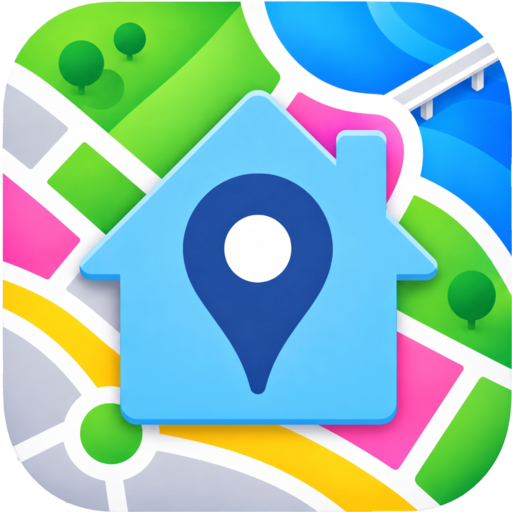
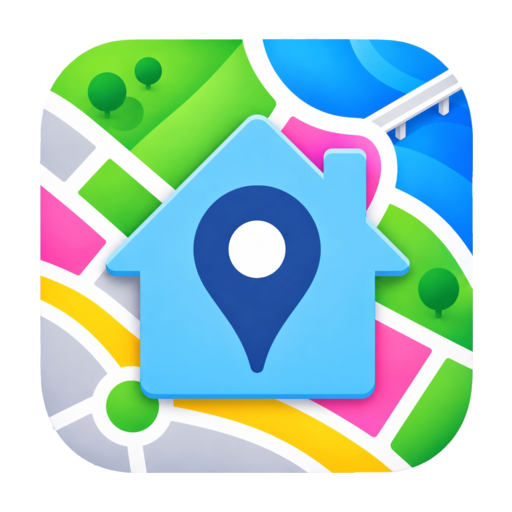
icône : 85 % du gabarit là où le système découpe
Choix fait en regardant les deux extrêmes côte à côte, puis vérifié sur
l'appareil. Pleine bord, le cercle du lanceur ne laissait de la carte que des
éclats et frôlait la pointe du toit — la photo de la fiche « Infos sur l'appli »
le montrait sans discussion. Replié dans la zone sûre des 66,7 %, tout
survivait mais petit, cerné de blanc. À 85 %, le toit est entier et un anneau
de carte subsiste : la découpe mord dans la carte, pas dans le sujet.

Ne s'applique qu'à ce que le système rogne lui-même — le premier plan adaptatif
et l'icône « maskable ». Les deux héritées ne changent pas : le carré garde ses
propres coins arrondis, et la ronde taille son cercle dans l'image entière, l'y
replier ajouterait la marge blanche qu'on écartait justement.

diff --git a/app/CLAUDE.md b/app/CLAUDE.md
@@ -2276,9 +2276,15 @@ Le reste tient à la transparence : l'image a de **vrais coins transparents**.
 Elle est donc aplatie sur du blanc partout où la transparence n'est pas admise
 — écran d'accueil iOS, gabarits du lanceur — et gardée telle quelle pour
 l'icône héritée d'Android, dont les coins arrondis sont bienvenus. La variante
-`maskable` et le premier plan adaptatif sont posés **pleine bord** : le
-lanceur rogne à sa propre forme, et comme le sujet est centré, il ne recoupe
-que la bordure de carte.
+`maskable` et le premier plan adaptatif occupent **85 % du gabarit**
+(`ZONE_SURE`), centrés sur du blanc. Ce chiffre a été choisi en regardant les
+deux extrêmes côte à côte : pleine bord, le cercle du lanceur ne laissait de la
+carte que des éclats et frôlait la pointe du toit ; replié dans la zone sûre des
+66,7 %, tout survivait mais petit et cerné de blanc. À 85 %, la découpe mord
+dans la carte et pas dans le sujet. **Ne pas remettre ces deux-là pleine bord**
+sans refaire la comparaison. Les deux icônes héritées, elles, ne changent pas :
+le carré garde ses propres coins arrondis, et la ronde taille son cercle dans
+l'image entière — l'y replier ajouterait la marge blanche qu'on a écartée.
 
 Le dessin superpose une **maison** aux proportions du logo Home Assistant
 (l'autohébergement), une **carte aux couleurs de Plans** et le **dard de

diff --git a/app/README.md b/app/README.md
@@ -179,9 +179,11 @@ Trois choses à connaître avant d'y revenir :
   fiche F-Droid et le README, restent en couleurs pleines. Sans ce partage
   l'ensemble pèserait 1,24 Mo au lieu de 807 ko.
 - **Sans icône *maskable*, le lanceur pose l'icône carrée dans une pastille
-  blanche** au lieu de la rogner à sa forme. Elle est donc pleine bord, comme
-  le premier plan adaptatif : le masque recoupe la bordure de carte, jamais le
-  sujet, qui est centré.
+  blanche** au lieu de la rogner à sa forme. Elle occupe donc 85 % du gabarit
+  (`ZONE_SURE`), comme le premier plan adaptatif : à cette échelle la découpe
+  du système mord dans la carte et pas dans le sujet. Pleine bord, il ne
+  restait de la carte que des éclats ; replié à 66,7 %, tout survivait mais
+  petit et cerné de blanc.
 
 **Ne retoucher aucun de ces fichiers à la main** : ils sont écrasés à chaque
 exécution. Seul prérequis, ImageMagick (« magick »), qui n'est pas une
